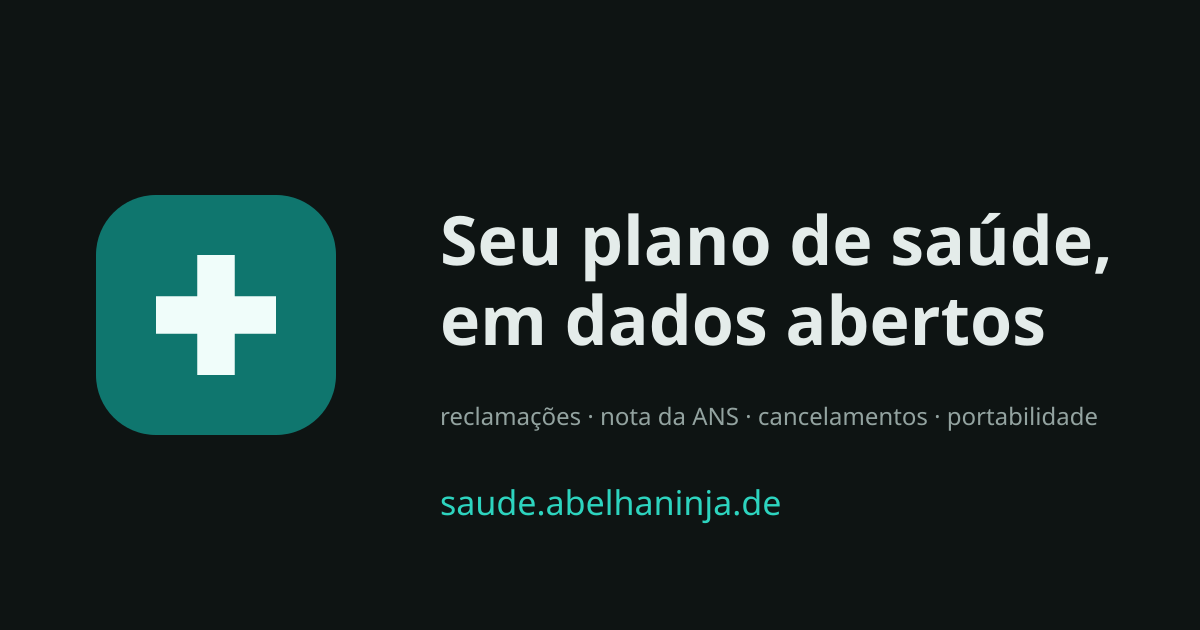
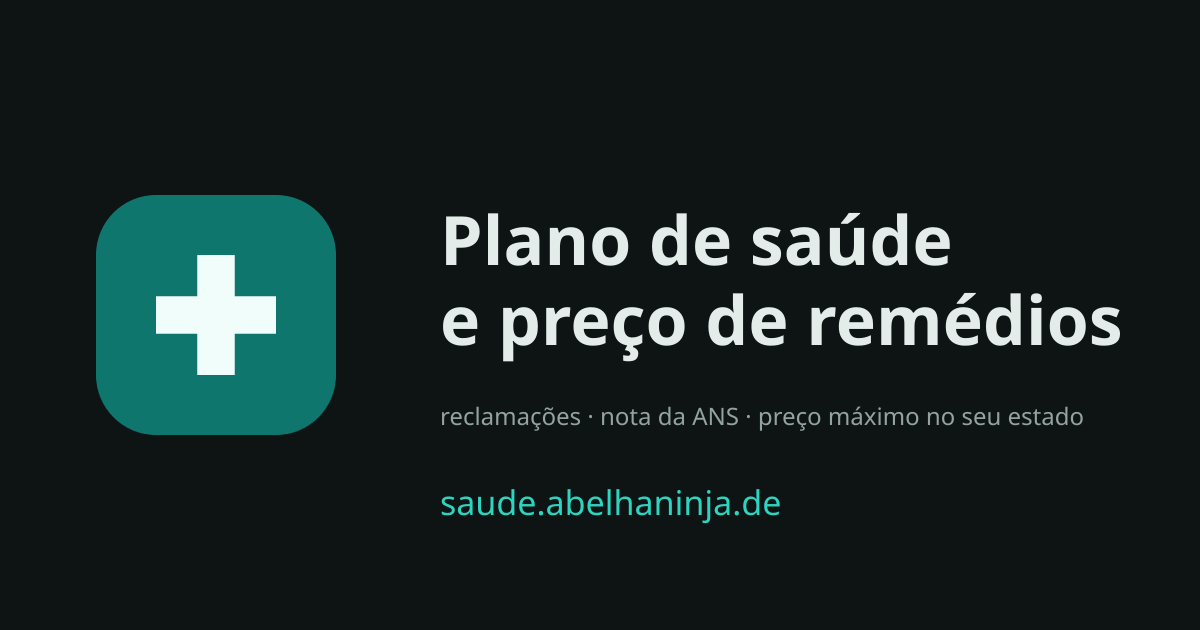
Fix footer links and disclaimer, cover both sections in the home, title and share image, label the search box

Changed region(s): [[0.4008, 0.4524, 0.9558, 0.573], [0.37, 0.3317, 0.925, 0.4524], [0.6167, 0.6333, 0.925, 0.6937]]

diff --git a/src/pages/llms.txt.ts b/src/pages/llms.txt.ts
@@ -1,7 +1,7 @@
 // The site in plain text for assistants and agents: what it answers, the pages, where the data comes from.
 import type { APIRoute } from "astro";
 import { DESCRIPTION, NAME, TITLE } from "../lib/brand";
-import { DADOS_URL, META_URL, REPOS } from "../lib/config";
+import { CMED_DADOS_URL, DADOS_URL, META_URL, REPOS } from "../lib/config";
 import { fmtDate, fmtInt } from "../lib/format";
 import { indiceForBuild, metaForBuild } from "../lib/operadoras";
 
@@ -27,12 +27,13 @@ Dados de ${fmtDate(meta.date)}: ${fmtInt(ativas)} operadoras de planos de saúde
 
 - Só fatos comparados, com a base e a fonte; o site não dá nota nem rótulo de risco.
 - "Plano típico" é a mediana das operadoras do mesmo porte (reclamações) ou da mesma modalidade (IDSS).
-- Sem vínculo com a ANS.
+- Sem vínculo com a ANS nem com a ANVISA.
 
 ## Dados
 
 - JSON por operadora: ${DADOS_URL}/operadora/<registro>.json (contrato em ${DADOS_URL}/schema.md)
-- Código: ${REPOS.portal} e ${REPOS.ansFeeds}
+- Preço máximo por remédio: ${CMED_DADOS_URL}/produto/<registro>.json (contrato em ${CMED_DADOS_URL}/schema.md)
+- Código dos dados das operadoras: ${REPOS.ansFeeds}
 `;
   return new Response(body, { headers: { "Content-Type": "text/plain; charset=utf-8" } });
 };

diff --git a/src/lib/brand.ts b/src/lib/brand.ts
@@ -2,12 +2,13 @@
 // The name is provisional: change it here when the final name and domain are chosen.
 export const NAME = "saude.abelhaninja.de";
 
-export const TITLE = "Seu plano de saúde, em dados abertos";
+export const TITLE = "Plano de saúde e preço de remédios";
 
 export const DESCRIPTION =
-  "Reclamações comparadas com planos do mesmo porte, nota de qualidade da ANS, cancelamentos e portabilidade de carências. Dados públicos da ANS, com a fonte de cada número.";
+  "Compare a sua operadora de plano de saúde com as do mesmo porte e veja quanto a farmácia pode cobrar por cada remédio no seu estado. Números da ANS e da ANVISA, com a fonte de cada um.";
 
-export const DISCLAIMER = "Sem vínculo com a ANS. Os dados oficiais estão no site da agência.";
+/** followed by the links to both agencies in the footer */
+export const DISCLAIMER = "Sem vínculo com a ANS nem com a ANVISA. Os dados oficiais estão nos sites delas:";
 
 export const AUTHOR = { name: "Virtuaires", url: "https://virtuaires.com.br" };
 

diff --git a/src/lib/config.ts b/src/lib/config.ts
@@ -15,13 +15,13 @@ export const ANS_FEEDS_URL = "https://ans.feeds.abelhaninja.de/";
 export const ANVISA_HUB_URL = "https://anvisa.abelhaninja.de/";
 export const CONTEM_URL = "https://contem.abelhaninja.de/";
 export const CMED_URL = "https://anvisa.feeds.abelhaninja.de/cmed/";
-export const HOME_URL = "https://abelhaninja.de/";
 
 export const ANS_URL = "https://www.gov.br/ans/pt-br";
+export const ANVISA_URL = "https://www.gov.br/anvisa/pt-br";
 export const ANS_PORTABILIDADE_URL =
   "https://www.gov.br/ans/pt-br/assuntos/contratacao-e-troca-de-plano/operadoras-em-fase-de-portabilidade-especial-e-portabilidade-extraordinaria";
 
+// public repositories only: the portal repository is private, so it is not linked
 export const REPOS = {
-  portal: "https://github.com/vasfvitor/portal-saude",
   ansFeeds: "https://github.com/vasfvitor/ans-feeds",
 } as const;
